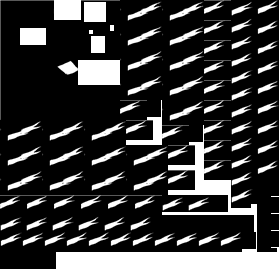
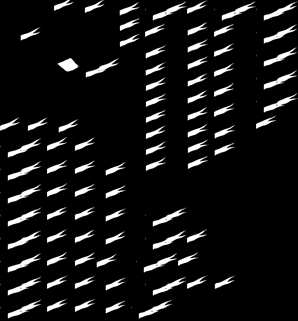
make_spritemap: Read packed=true animations, re-pack headquarters

diff --git a/utils/pywi/animation.py b/utils/pywi/animation.py
@@ -217,6 +217,25 @@ class AnimationBlits(Animation):
                 ])
             )
 
+    def copy(self, chunkset):
+        """
+        Create a copy of this animation that stores its chunk in the given chunkset
+        """
+        if chunkset.has_player_color != self.has_player_color:
+            raise Exception('AnimationBlits.copy: inconsistent has_player_color')
+        new_anim = AnimationBlits(chunkset)
+        new_anim.options.update(self.options)
+        for frame in self.frames:
+            blits = []
+            for blit in frame:
+                chunk = chunkset.make_chunk(
+                    blit.chunk.pic, blit.chunk.pc_pic,
+                    (0,0) + blit.chunk.pic.shape[0:2]
+                )
+                blits.append(Blit(chunk, blit.offset))
+            new_anim.append_frame(blits)
+        return new_anim
+
     @staticmethod
     def load(directory, section_dict, context=None):
         spritemap_name = section_dict.pop('spritemap')
@@ -306,6 +325,70 @@ def load_glob(filename_glob, context=None):
 
     return AnimationFullFrames(rv)
 
+def load_packed(directory, section_dict, context=None):
+    pics = section_dict.pop('pics')
+    hotspot = tuple(reversed([int(x) for x in section_dict.pop('hotspot').split()]))
+    dims = tuple(reversed([int(x) for x in section_dict.pop('dimensions').split()]))
+    base_offset = tuple(reversed([int(x) for x in section_dict.pop('base_offset').split()]))
+
+    fn = directory + '/' + pics
+    spritemap = np.asarray(Image.open(fn))
+    if context is not None:
+        context.filenames.add(fn)
+        context.spritemap_names.add(pics.replace('.png', ''))
+
+    fn = directory + '/' + pics.replace('.png', '_pc.png')
+    has_player_color = os.path.exists(fn)
+    if has_player_color:
+        spritemap_pc = np.asarray(Image.open(fn))
+        if context is not None:
+            context.filenames.add(fn)
+        if len(spritemap_pc.shape) == 2:
+            rgba = np.zeros(spritemap_pc.shape + (4,))
+            rgba[:,:,0] = spritemap_pc
+            rgba[:,:,1] = spritemap_pc
+            rgba[:,:,2] = spritemap_pc
+            rgba[:,:,3] = 255
+            spritemap_pc = rgba
+    else:
+        spritemap_pc = None
+
+    nrframes = 1
+    regions = []
+    for name in section_dict.keys():
+        if not name.startswith('region_'):
+            continue
+        region_descr = section_dict.pop(name).split(':')
+        region = (tuple([int(x) for x in region_descr[0].split()]), [
+            tuple([int(x) for x in frame.split()])
+            for frame in region_descr[1].split(';')
+        ])
+        if not regions:
+            nrframes = len(region[1])
+        else:
+            if nrframes != len(region[1]):
+                raise Exception('inconsistent number of frames in packed=true animation')
+        regions.append(region)
+
+    chunkset = ChunkSet(has_player_color)
+    anim = AnimationBlits(chunkset)
+
+    base_chunk = chunkset.make_chunk(
+        spritemap, spritemap_pc,
+        (base_offset[0], base_offset[1], base_offset[0] + dims[0], base_offset[1] + dims[1])
+    )
+    for framenr in xrange(nrframes):
+        blits = [Blit(base_chunk, (-hotspot[0], -hotspot[1]))]
+        for region in regions:
+            ofs = (region[1][framenr][1], region[1][framenr][0])
+            chunk = chunkset.make_chunk(
+                spritemap, spritemap_pc,
+                (ofs[0], ofs[1], ofs[0] + region[0][3], ofs[1] + region[0][2])
+            )
+            blits.append(Blit(chunk, (region[0][1] - hotspot[0], region[0][0] - hotspot[1])))
+        anim.append_frame(blits)
+
+    return anim
 
 def load_section(directory, section, context=None):
     d = dict([(key, value) for key, value in section.iterentries()])
@@ -317,6 +400,8 @@ def load_section(directory, section, context=None):
         anim.hotspot = tuple([int(v) for v in _re_point.match(d.pop('hotspot')).groups()[::-1]])
     elif typ == 2:
         anim = AnimationBlits.load(directory, d, context)
+    elif typ == 1:
+        anim = load_packed(directory, d, context)
     else:
         raise Exception('cannot load this type of animation yet')
     anim.options.update(d)

diff --git a/utils/make_spritemap.py b/utils/make_spritemap.py
@@ -572,6 +572,17 @@ def do_optimize_greedy(frames):
 #############################################
 
 
+def copy_blits_animation(anim, chunksets):
+    """
+    Copy the given animation (which must be of type AnimationBlits)
+    into a new animation using the given chunksets
+    """
+    if chunksets[anim.has_player_color] is None:
+        chunksets[anim.has_player_color] = pywi.animation.ChunkSet(anim.has_player_color)
+    chunkset = chunksets[anim.has_player_color]
+    return anim.copy(chunkset)
+
+
 def optimize_bbox(animations, chunksets, args):
     """
     Joint optimization of the given animations using a simple bounding box routine
@@ -689,23 +700,10 @@ def optimize_greedy(animations, chunksets, args):
     new_animations = {}
     if not args.reopt:
         for name in sorted(animations.iterkeys()):
-            if type(name) == pywi.animation.AnimationBlits:
+            anim = animations[name]
+            if type(anim) == pywi.animation.AnimationBlits:
                 print 'Copying %s' % (name)
-                if chunksets[anim.has_player_color] is None:
-                    chunksets[anim.has_player_color] = pywi.animation.ChunkSet(anim.has_player_color)
-                chunkset = chunksets[anim.has_player_color]
-                new_anim = pywi.animation.AnimationBlits(chunkset)
-                new_anim.options.update(anim.options)
-                for frame in anim.frames:
-                    blits = []
-                    for blit in frame:
-                        chunk = chunkset.make_chunk(
-                            blit.chunk.pic, blit.chunk.pc_pic,
-                            (0,0) + blit.chunk.pic.shape[0:2]
-                        )
-                        blits.append(pywi.animation.Blit(chunk, blit.offset))
-                    new_anim.append_frame(blits)
-                new_animations[name] = new_anim
+                new_animations[name] = copy_blits_animation(anim, chunksets)
                 del animations[name]
 
     pc_animations = dict([
@@ -865,6 +863,16 @@ def main():
         animations = optimize_greedy(animations, chunksets, args)
     else:
         error('Unknown optimization method %s' % (arg.optimize))
+
+    # This is perhaps a bit of an excessive way for achieving this,
+    # but re-copy all animations in sorted order. The intention of this
+    # is to make the resulting spritemaps be more stable when the same
+    # directory is re-optimized
+    chunksets = [None, None]
+    animations = dict([
+        (name, copy_blits_animation(animations[name], chunksets))
+        for name in sorted(animations.iterkeys())
+    ])
 
     newhash = compute_animations_hash(animations)
     newcost = 0

diff --git a/src/graphic/animation.cc b/src/graphic/animation.cc
@@ -1,5 +1,5 @@
 /*
- * Copyright (C) 2002, 2006-2010 by the Widelands Development Team
+ * Copyright (C) 2002, 2006-2013 by the Widelands Development Team
  *
  * This program is free software; you can redistribute it and/or
  * modify it under the terms of the GNU General Public License

diff --git a/src/graphic/animation.h b/src/graphic/animation.h
@@ -1,5 +1,5 @@
 /*
- * Copyright (C) 2002, 2006-2010 by the Widelands Development Team
+ * Copyright (C) 2002, 2006-2013 by the Widelands Development Team
  *
  * This program is free software; you can redistribute it and/or
  * modify it under the terms of the GNU General Public License
